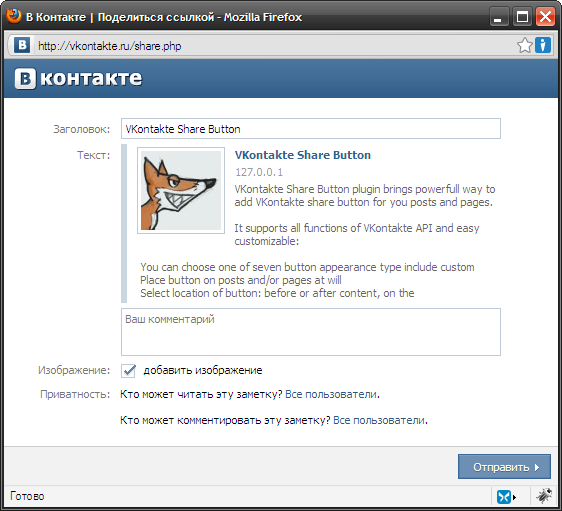
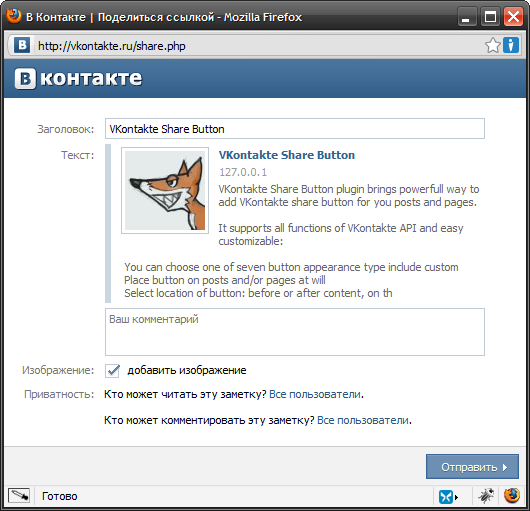
Adding vkontakte-share-button 1.0.0.30. Bug fixed
git-svn-id: https://plugins.svn.wordpress.org/vkontakte-share-button/trunk@240251 b8457f37-d9ea-0310-8a92-e5e31aec5664

diff --git a/vk-share-button.css b/vk-share-button.css
@@ -1,7 +1,7 @@
 #vk-button td
 {
-	border: 0 none;
-	padding: 0;
-	margin: 0;
+	border: 0 none !important;
+	padding: 0 !important;
+	margin: 0 !important;
 	
 }

diff --git a/vk-share-button.php b/vk-share-button.php
@@ -9,7 +9,7 @@ Plugin Name: VKontakte Share Button
 Plugin URI: http://www.jackyfox.com/vk-share-button/
 Description: The plugin implements the API function VKontakte social network that adds the link share button.
 Author: Eugene Padlov
-Version: 1.0
+Version: 1.0.0.29
 Author URI: http://www.jackyfox.com/
 License: GPL2
 */
@@ -143,9 +143,6 @@ class VKShareButton
 			case 'none':
 				$descr = '';
 		}
-		/*$descr = get_option('vk_share_button_description') == 'default' ? 
-			js_escape(substr(strip_tags($post->post_content), 0, 350)) : 
-			js_escape(get_option('vk_share_button_description_text'));*/
 		$thumb = js_escape(get_option('vk_share_button_thumbnail'));
 		$type = js_escape(get_option('vk_share_button_type'));
 		// If custom buttom type selected use unconverted text
@@ -197,7 +194,6 @@ class VKShareButton
 	// Localization support
 	function load_domain()
 	{
-		//$mofile = $this->plugin_url . 'lang/' . $this->plugin_domain . '-' . $locale . '.mo';
 		$mofile = dirname(__FILE__) . '/lang/vk-share-button-' . get_locale() . '.mo';
 		
 		load_textdomain($this->plugin_domain, $mofile);
